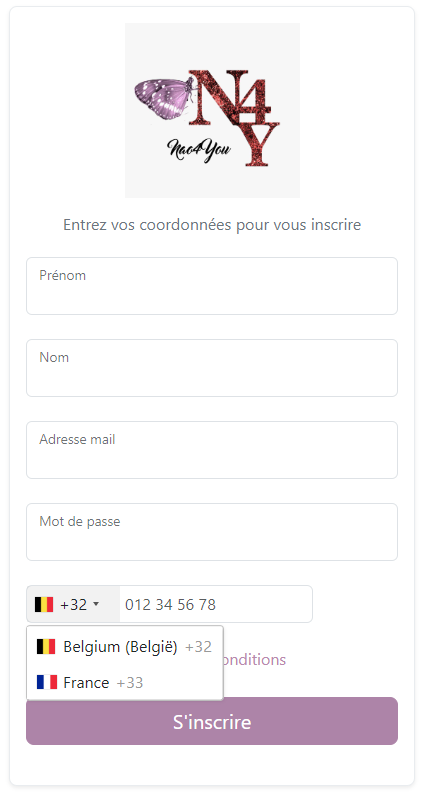
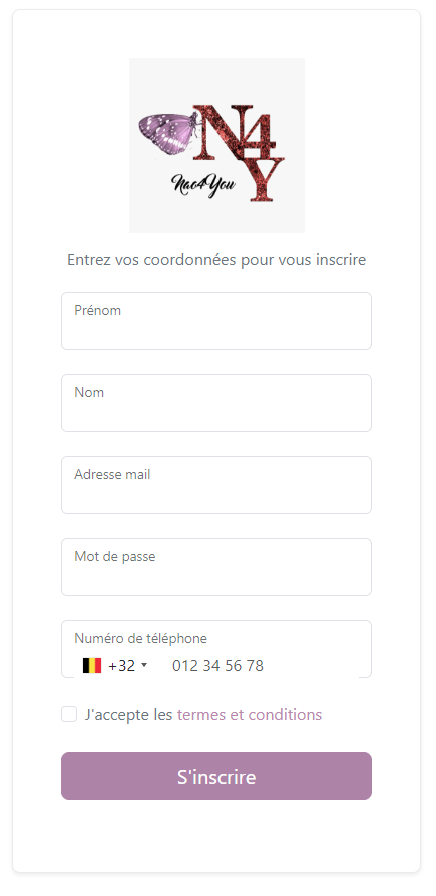
phone input update in sign up form

diff --git a/frontend/src/app/_authentication/register/register.component.html b/frontend/src/app/_authentication/register/register.component.html
@@ -103,18 +103,20 @@
                   <!-- Phone Number -->
                   <div class="col-12">
                     <div class="form-floating mb-3">
-                      <ngx-intl-tel-input [onlyCountries]="countriesList" 
-                                          [enableAutoCountrySelect]="true"
-                                          [enablePlaceholder]="true" 
-                                          [selectFirstCountry]="true" 
-                                          [phoneValidation]="true"
-                                          [separateDialCode]="true" 
-                                          [numberFormat]="PhoneNumberFormat.National" 
-                                          name="phone"
-                                          formControlName="phone" 
-                                          [ngClass]="{'is-invalid': f.submitted && form.get('phone')?.invalid}">
-                      </ngx-intl-tel-input>
+                      <ngx-intl-tel-input
+                            [onlyCountries]="countriesList" 
+                            [enableAutoCountrySelect]="true"
+                            [enablePlaceholder]="true" 
+                            [selectFirstCountry]="true" 
+                            [phoneValidation]="true"
+                            [separateDialCode]="true" 
+                            [numberFormat]="PhoneNumberFormat.National" 
+                            name="phone"
+                            formControlName="phone" 
+                            class="form-control"
+                            [ngClass]="{'is-invalid': f.submitted && form.get('phone')?.invalid}"/>
                       <!-- handling errors -->
+                      <label for="phone" class="form-label">Numéro de téléphone</label>
                       <div *ngIf="form.get('phone')?.errors && f.submitted" class="invalid-feedback">
                         <div *ngIf="form.get('phone')?.errors?.['required']">
                           Veuillez compléter le champ.
@@ -123,8 +125,7 @@
                     </div>
                   </div>
 
-
-
+            
                   <!-- Terms and Conditions -->
                   <div class="col-12">
                     <div class="form-check">

diff --git a/frontend/README.md b/frontend/README.md
@@ -1,5 +1,12 @@
 # Frontend
 
+### Diasable lightgrey border from phone input:
+- got to --> ./node_modules/intl-tel-input/build.css/intlTelInput.css
+- add -->  .iti input, .iti input[type=text], .iti input[type=tel] {
+    ...
+    border: none !important;
+    box-shadow: none !important; }
+
 ![alt text](sign_up_state.png)
 
 This project was generated with [Angular CLI](https://github.com/angular/angular-cli) version 18.0.5.
